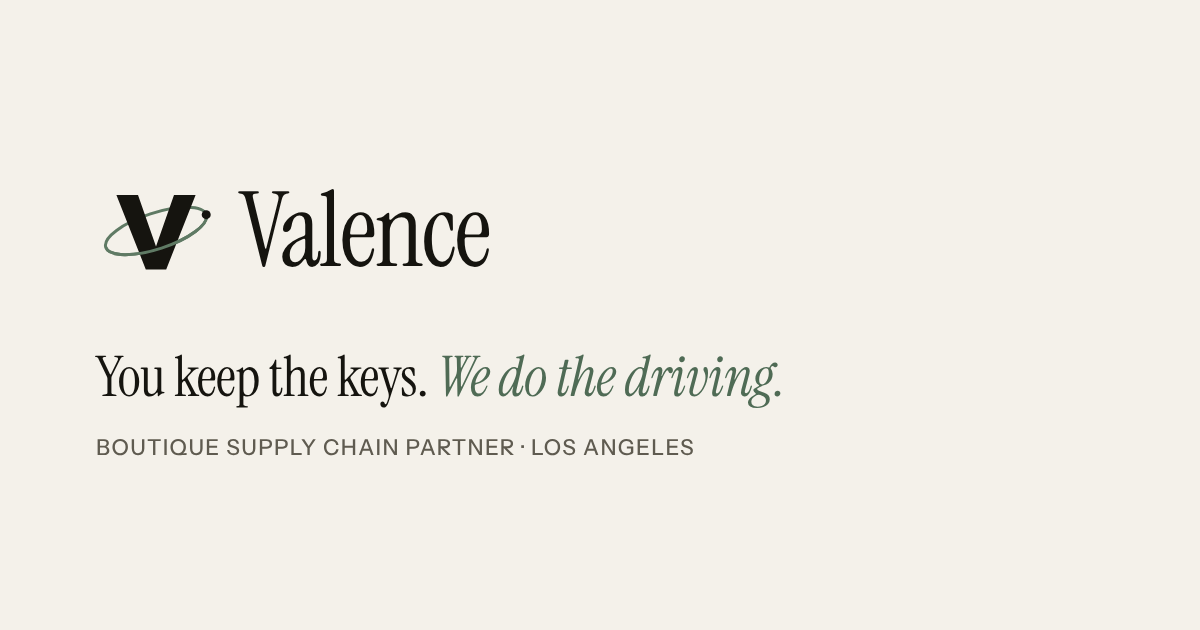
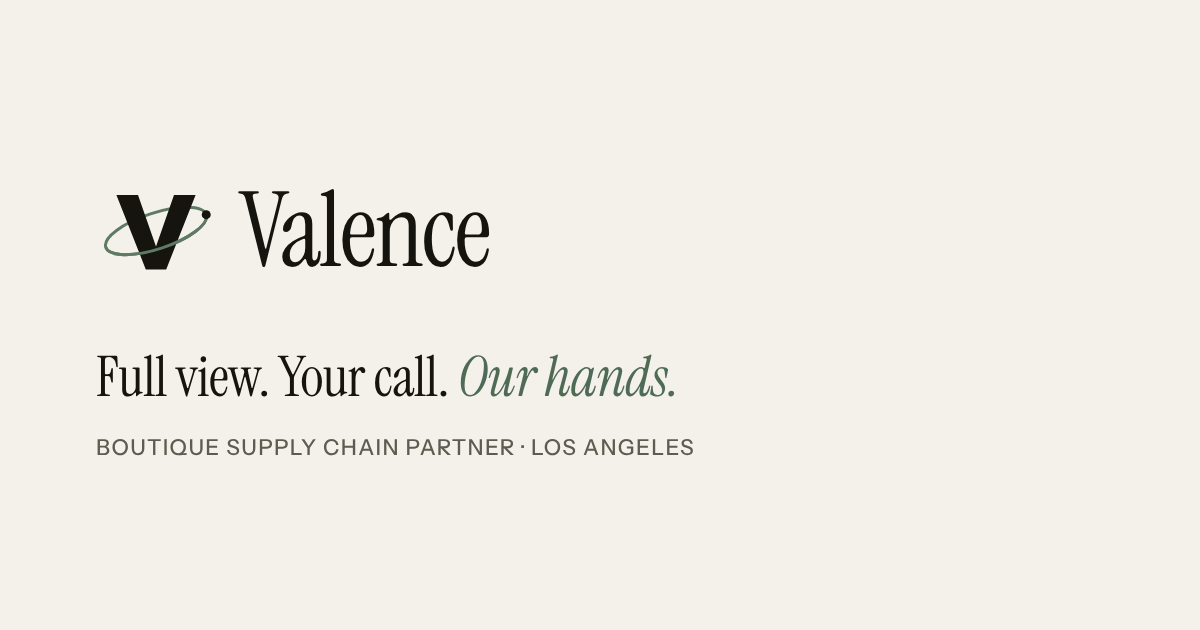
Change the home headline to "Full view. Your call. Our hands."
Updates the hero h1, the home page title, and the social preview image.

Claude-Session: https://claude.ai/code/session_01EaAWQgs54CH2jGCXDYNGJZ

Changed region(s): [[0.0617, 0.5429, 0.6475, 0.6635]]

diff --git a/index.html b/index.html
@@ -4,7 +4,7 @@
   <script>if(location.hostname==='valencesupplychain.com'){location.replace('https://www.valencesupplychain.com'+location.pathname+location.search+location.hash)}document.documentElement.className+=' js';</script>
   <meta charset="utf-8">
   <meta name="viewport" content="width=device-width, initial-scale=1, viewport-fit=cover">
-  <title>Valence Supply Chain | You keep the keys. We do the driving.</title>
+  <title>Valence Supply Chain | Full view. Your call. Our hands.</title>
   <meta name="description" content="Valence is a boutique supply chain partner in Los Angeles. We manage your co-packers and suppliers, reconcile inventory across every partner, and run your freight. You see all of it, live, and nothing gets decided without you.">
   <link rel="canonical" href="https://www.valencesupplychain.com/">
   <link rel="icon" href="/favicon.svg" type="image/svg+xml">
@@ -14,14 +14,14 @@
   <meta name="theme-color" content="#F4F1EA">
   <meta property="og:type" content="website">
   <meta property="og:site_name" content="Valence Supply Chain">
-  <meta property="og:title" content="Valence Supply Chain | You keep the keys. We do the driving.">
+  <meta property="og:title" content="Valence Supply Chain | Full view. Your call. Our hands.">
   <meta property="og:description" content="Valence is a boutique supply chain partner in Los Angeles. We manage your co-packers and suppliers, reconcile inventory across every partner, and run your freight. You see all of it, live, and nothing gets decided without you.">
   <meta property="og:url" content="https://www.valencesupplychain.com/">
   <meta property="og:image" content="https://www.valencesupplychain.com/og-image.png">
   <meta property="og:image:width" content="1200">
   <meta property="og:image:height" content="630">
   <meta name="twitter:card" content="summary_large_image">
-  <meta name="twitter:title" content="Valence Supply Chain | You keep the keys. We do the driving.">
+  <meta name="twitter:title" content="Valence Supply Chain | Full view. Your call. Our hands.">
   <meta name="twitter:description" content="Valence is a boutique supply chain partner in Los Angeles. We manage your co-packers and suppliers, reconcile inventory across every partner, and run your freight. You see all of it, live, and nothing gets decided without you.">
   <meta name="twitter:image" content="https://www.valencesupplychain.com/og-image.png">
   <link rel="preconnect" href="https://fonts.googleapis.com">
@@ -60,7 +60,7 @@
   <section class="container hero" aria-labelledby="hero-title">
     <div>
       <p class="eyebrow">Boutique supply chain partner · Los Angeles</p>
-      <h1 id="hero-title" class="h1">You keep the keys.<br><em>We do the driving.</em></h1>
+      <h1 id="hero-title" class="h1">Full view. Your call.<br><em>Our hands.</em></h1>
       <p class="lede">Valence runs the parts of your supply chain that eat your week: your suppliers, your inventory across every partner, and your freight. You see all of it, live, and nothing gets decided without you.</p>
       <div class="btn-row">
         <a class="btn btn--green" href="#contact">Talk to us</a>

diff --git a/src/pages/home.html b/src/pages/home.html
@@ -1,4 +1,4 @@
-<!--{"out":"index.html","title":"Valence Supply Chain | You keep the keys. We do the driving.","description":"Valence is a boutique supply chain partner in Los Angeles. We manage your co-packers and suppliers, reconcile inventory across every partner, and run your freight. You see all of it, live, and nothing gets decided without you.","footer":"dark","bodyClass":"page-home","scripts":["/assets/js/home.js"]}-->
+<!--{"out":"index.html","title":"Valence Supply Chain | Full view. Your call. Our hands.","description":"Valence is a boutique supply chain partner in Los Angeles. We manage your co-packers and suppliers, reconcile inventory across every partner, and run your freight. You see all of it, live, and nothing gets decided without you.","footer":"dark","bodyClass":"page-home","scripts":["/assets/js/home.js"]}-->
 <div class="splash" id="splash" role="button" tabindex="0" aria-label="Enter site" hidden>
   <!-- @mark variant="light" size="360" -->
   <div class="splash__word">Valence</div>
@@ -11,7 +11,7 @@
   <section class="container hero" aria-labelledby="hero-title">
     <div>
       <p class="eyebrow">Boutique supply chain partner · Los Angeles</p>
-      <h1 id="hero-title" class="h1">You keep the keys.<br><em>We do the driving.</em></h1>
+      <h1 id="hero-title" class="h1">Full view. Your call.<br><em>Our hands.</em></h1>
       <p class="lede">Valence runs the parts of your supply chain that eat your week: your suppliers, your inventory across every partner, and your freight. You see all of it, live, and nothing gets decided without you.</p>
       <div class="btn-row">
         <a class="btn btn--green" href="#contact">Talk to us</a>
